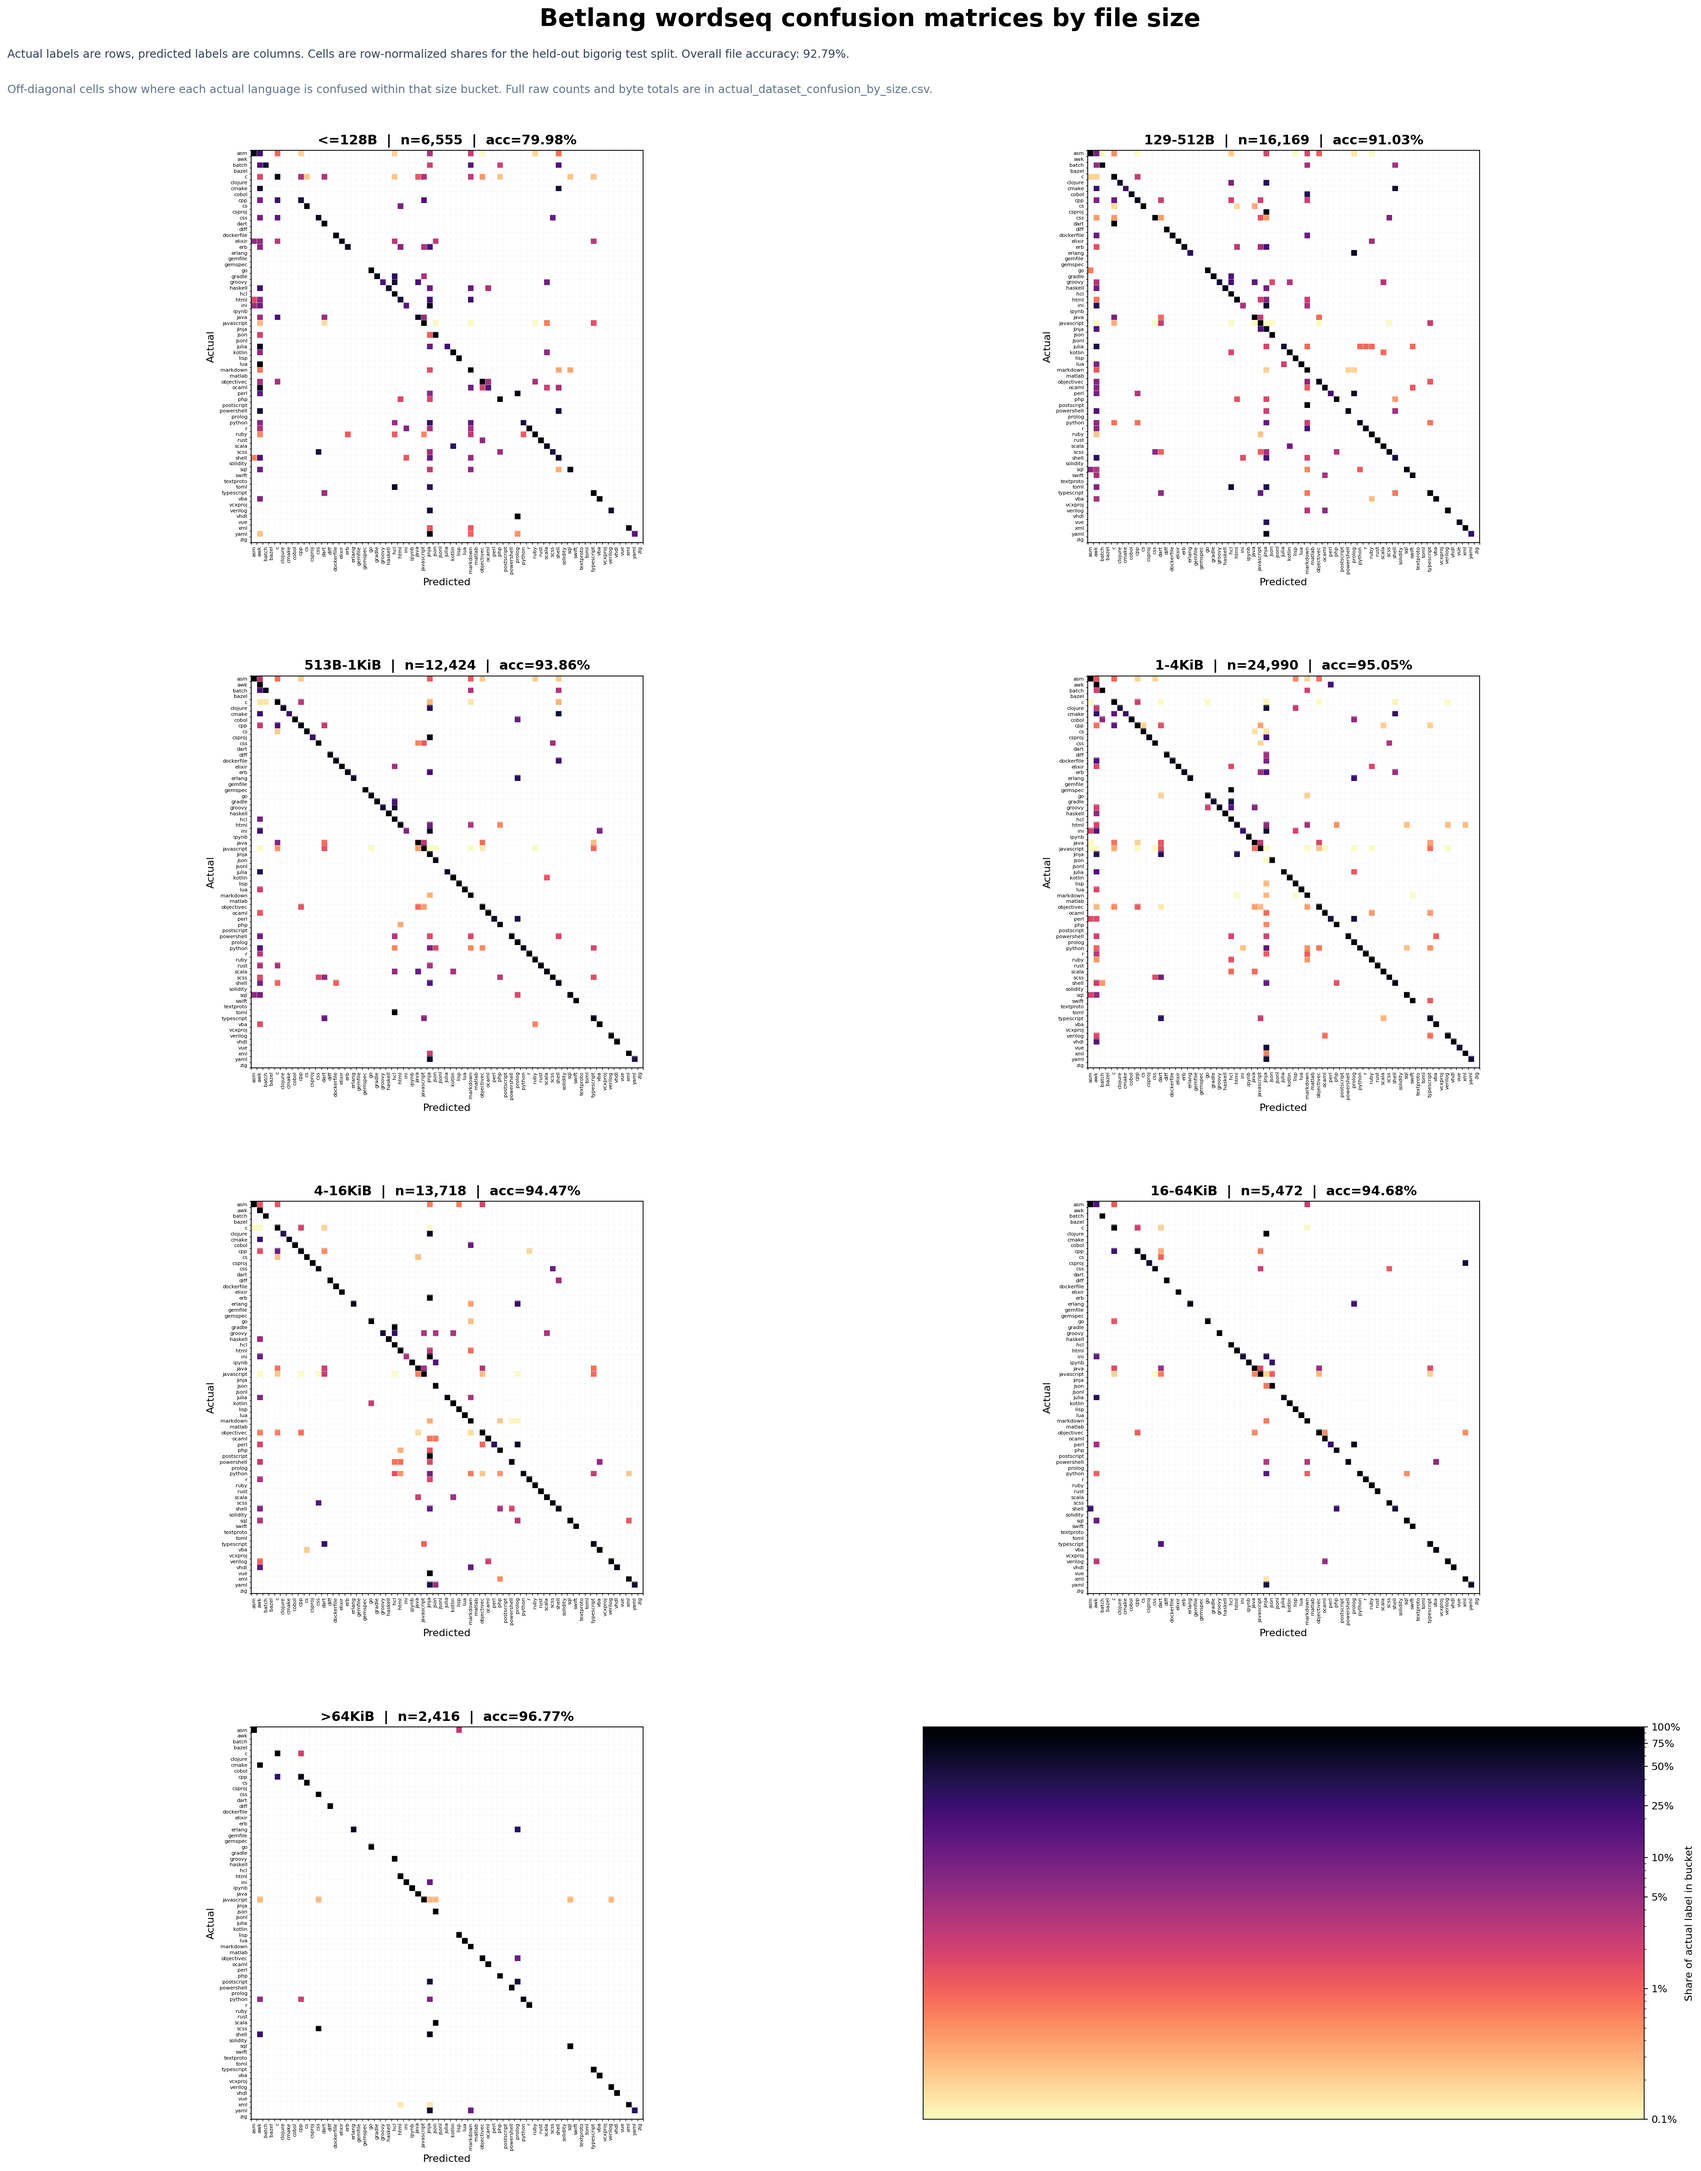
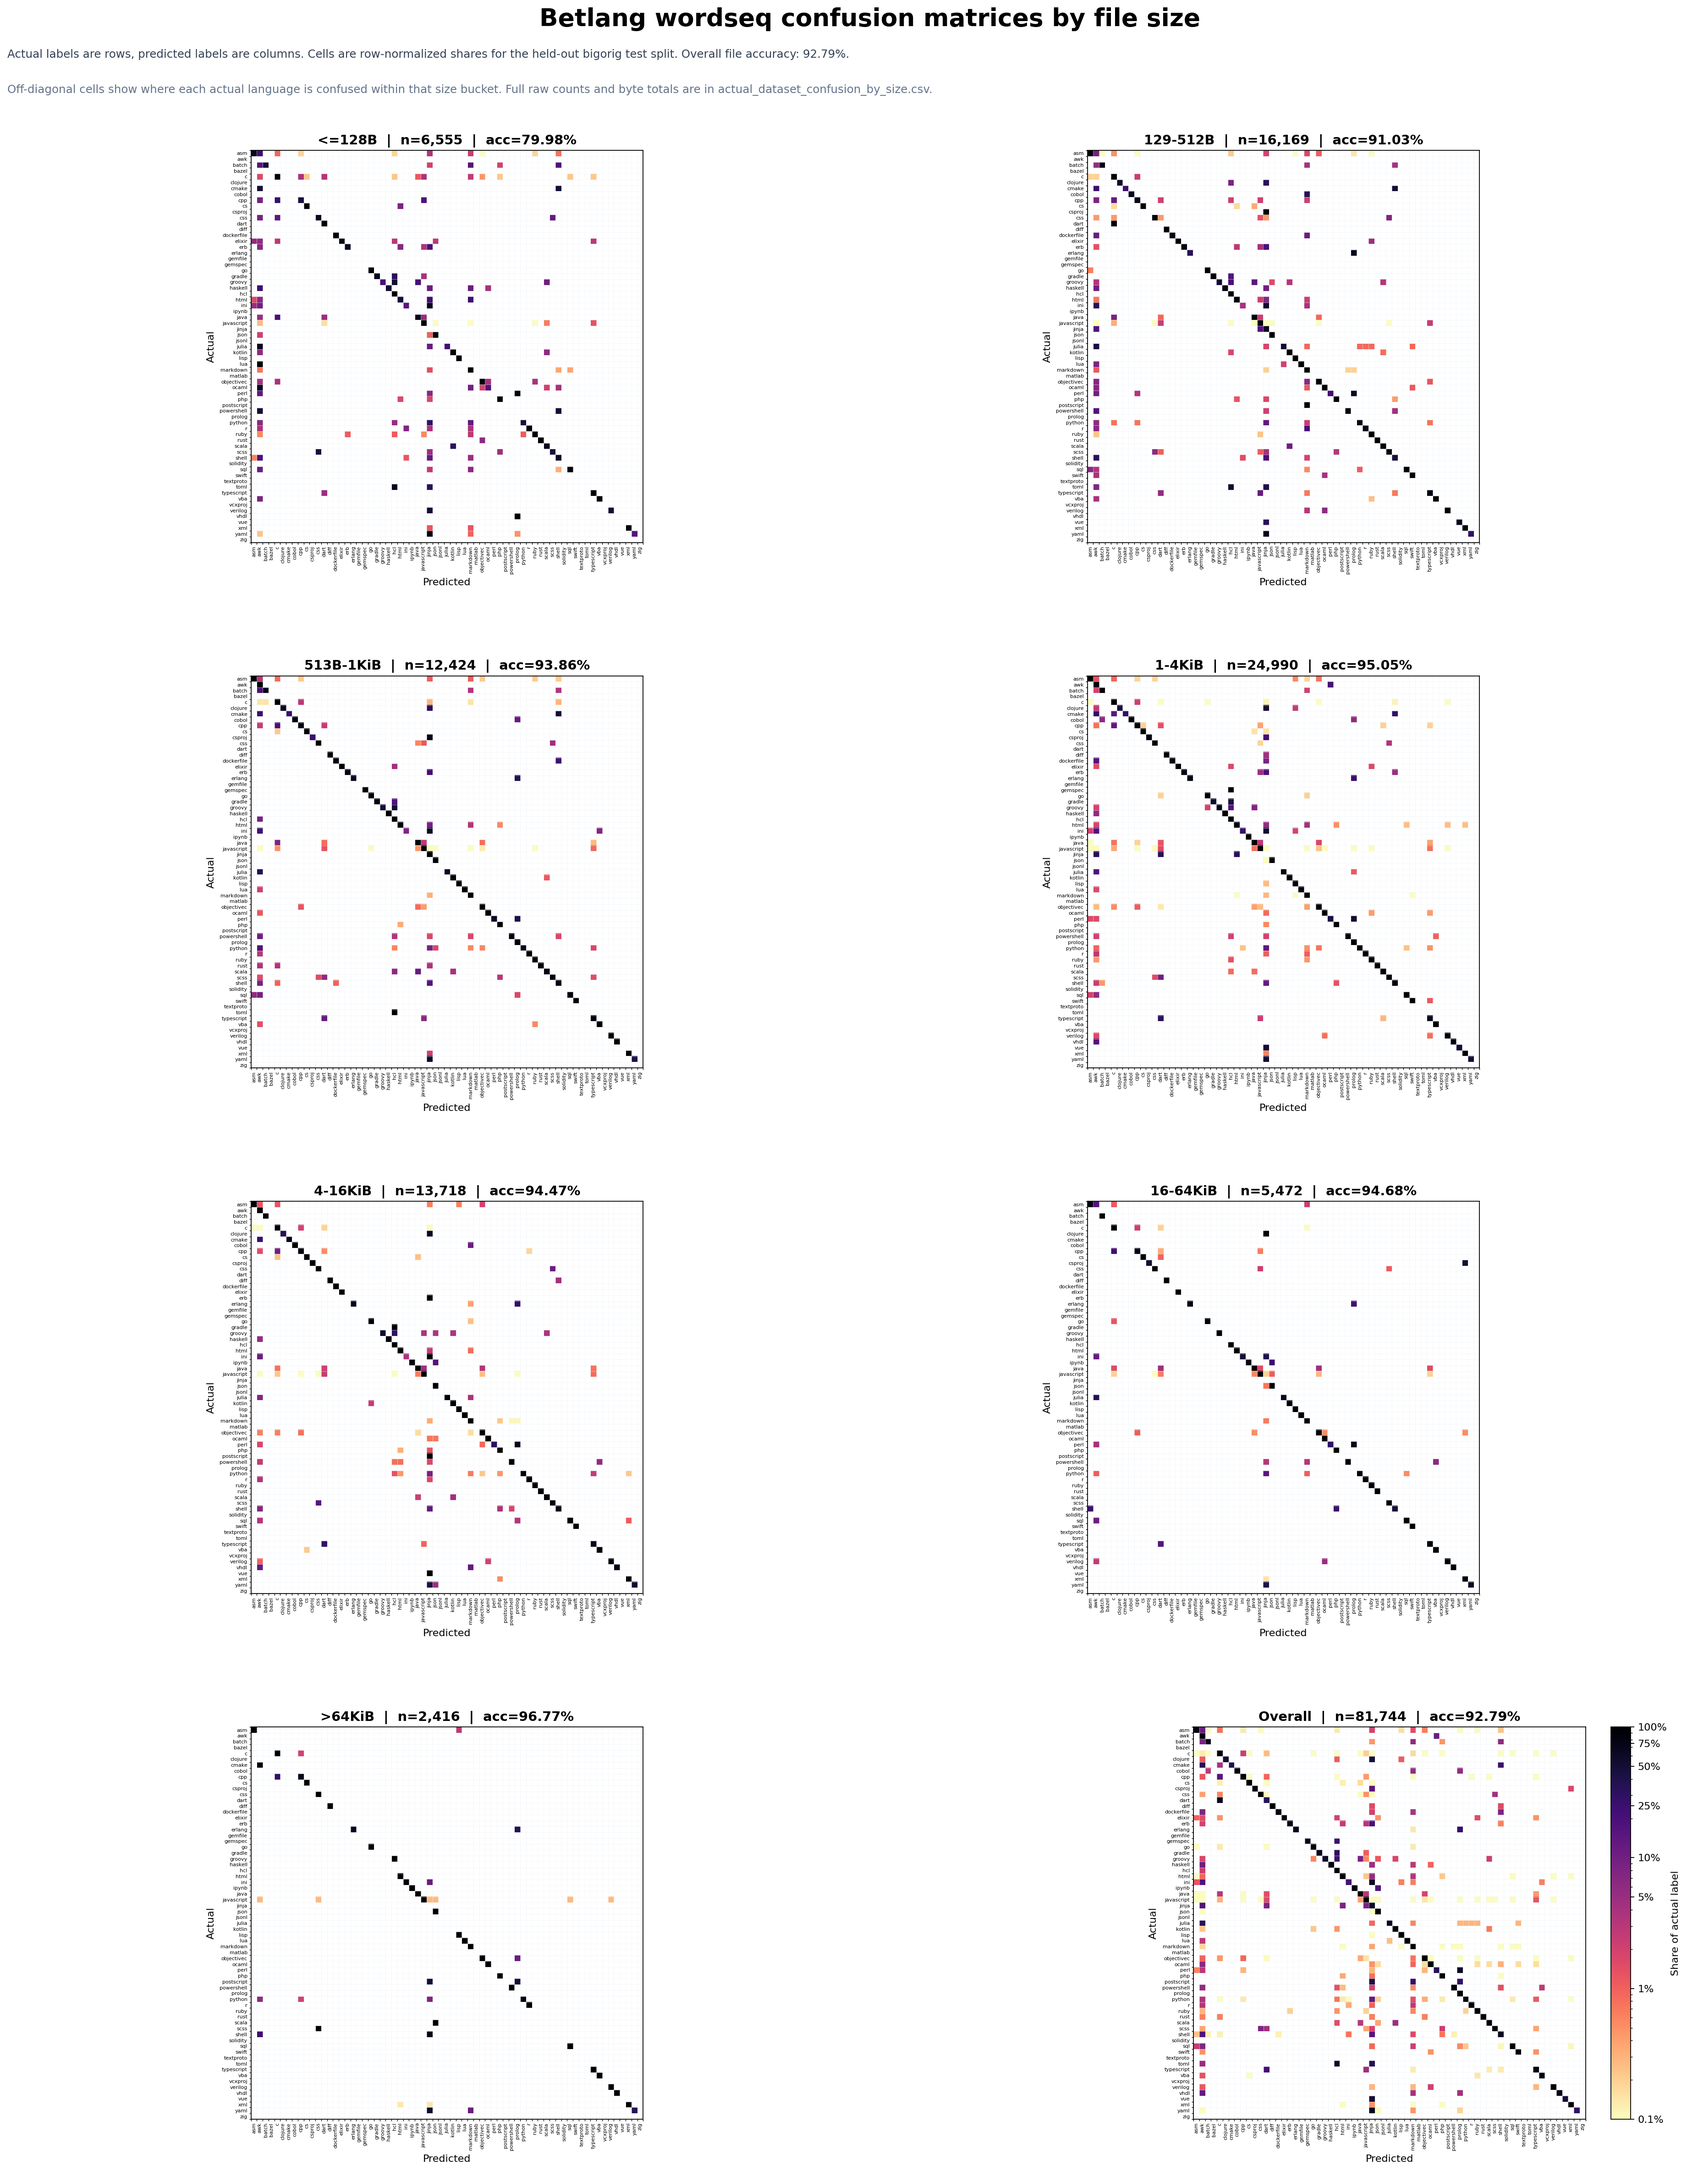
Fix confusion matrix colorbar layout

diff --git a/scripts/confusion_by_size.py b/scripts/confusion_by_size.py
@@ -353,7 +353,9 @@ def render_png(
     fig, axes = plt.subplots(4, 2, figsize=(24, 30), dpi=160)
     axes_flat = axes.ravel()
     image = None
-    for ax, bucket, matrix in zip(axes_flat[: len(BUCKETS)], BUCKETS, matrices):
+
+    def plot_panel(ax, title: str, matrix: np.ndarray) -> None:
+        nonlocal image
         row_sums = matrix.sum(axis=1, keepdims=True)
         with np.errstate(divide="ignore", invalid="ignore"):
             normalized = np.divide(
@@ -366,7 +368,7 @@ def render_png(
         image = ax.imshow(masked, cmap=cmap, norm=LogNorm(vmin=0.001, vmax=1.0), interpolation="nearest")
         total = int(matrix.sum())
         acc = float(np.trace(matrix) / total) if total else 0.0
-        ax.set_title(f"{bucket[0]}  |  n={total:,}  |  acc={acc * 100:.2f}%", fontsize=13, weight="bold")
+        ax.set_title(f"{title}  |  n={total:,}  |  acc={acc * 100:.2f}%", fontsize=13, weight="bold")
         ax.set_xticks(np.arange(len(labels)))
         ax.set_yticks(np.arange(len(labels)))
         ax.set_xticklabels(labels, rotation=90, fontsize=5)
@@ -377,6 +379,13 @@ def render_png(
         ax.set_yticks(np.arange(-0.5, len(labels), 1), minor=True)
         ax.grid(which="minor", color="#eef2f7", linewidth=0.25)
         ax.tick_params(length=0)
+
+    for ax, bucket, matrix in zip(axes_flat[: len(BUCKETS)], BUCKETS, matrices):
+        plot_panel(ax, bucket[0], matrix)
+    overall_ax = axes_flat[len(BUCKETS)]
+    overall_matrix = np.sum(np.stack(matrices, axis=0), axis=0)
+    plot_panel(overall_ax, "Overall", overall_matrix)
+
     fig.suptitle("Betlang wordseq confusion matrices by file size", fontsize=24, weight="bold", y=0.995)
     fig.text(
         0.01,
@@ -394,12 +403,12 @@ def render_png(
         fontsize=11,
         color="#64748b",
     )
+    fig.subplots_adjust(left=0.055, right=0.94, top=0.93, bottom=0.035, hspace=0.34, wspace=0.16)
     if image is not None:
-        cbar = fig.colorbar(image, cax=axes_flat[-1])
-        cbar.set_label("Share of actual label in bucket", fontsize=10)
+        cbar = fig.colorbar(image, ax=overall_ax, fraction=0.046, pad=0.035)
+        cbar.set_label("Share of actual label", fontsize=10)
         cbar.set_ticks([0.001, 0.01, 0.05, 0.10, 0.25, 0.50, 0.75, 1.0])
         cbar.set_ticklabels(["0.1%", "1%", "5%", "10%", "25%", "50%", "75%", "100%"])
-    fig.subplots_adjust(left=0.055, right=0.94, top=0.93, bottom=0.035, hspace=0.34, wspace=0.16)
     fig.savefig(path, bbox_inches="tight")
     plt.close(fig)
 

diff --git a/README.md b/README.md
@@ -17,8 +17,9 @@ accuracy for rare-label recall.
 ## Confusion by file size
 
 The shipped wordseq model is evaluated below on the held-out `bigorig` test
-split. Each panel is a row-normalized confusion matrix for one file-size
-bucket: actual labels are rows, predicted labels are columns, and the diagonal
-is correct classification.
+split. The first seven panels are row-normalized confusion matrices for each
+file-size bucket, and the final panel is the overall confusion matrix with a
+compact shared scale. Actual labels are rows, predicted labels are columns, and
+the diagonal is correct classification.
 
 ![Betlang wordseq confusion by file size](assets/confusion-by-size.png)
